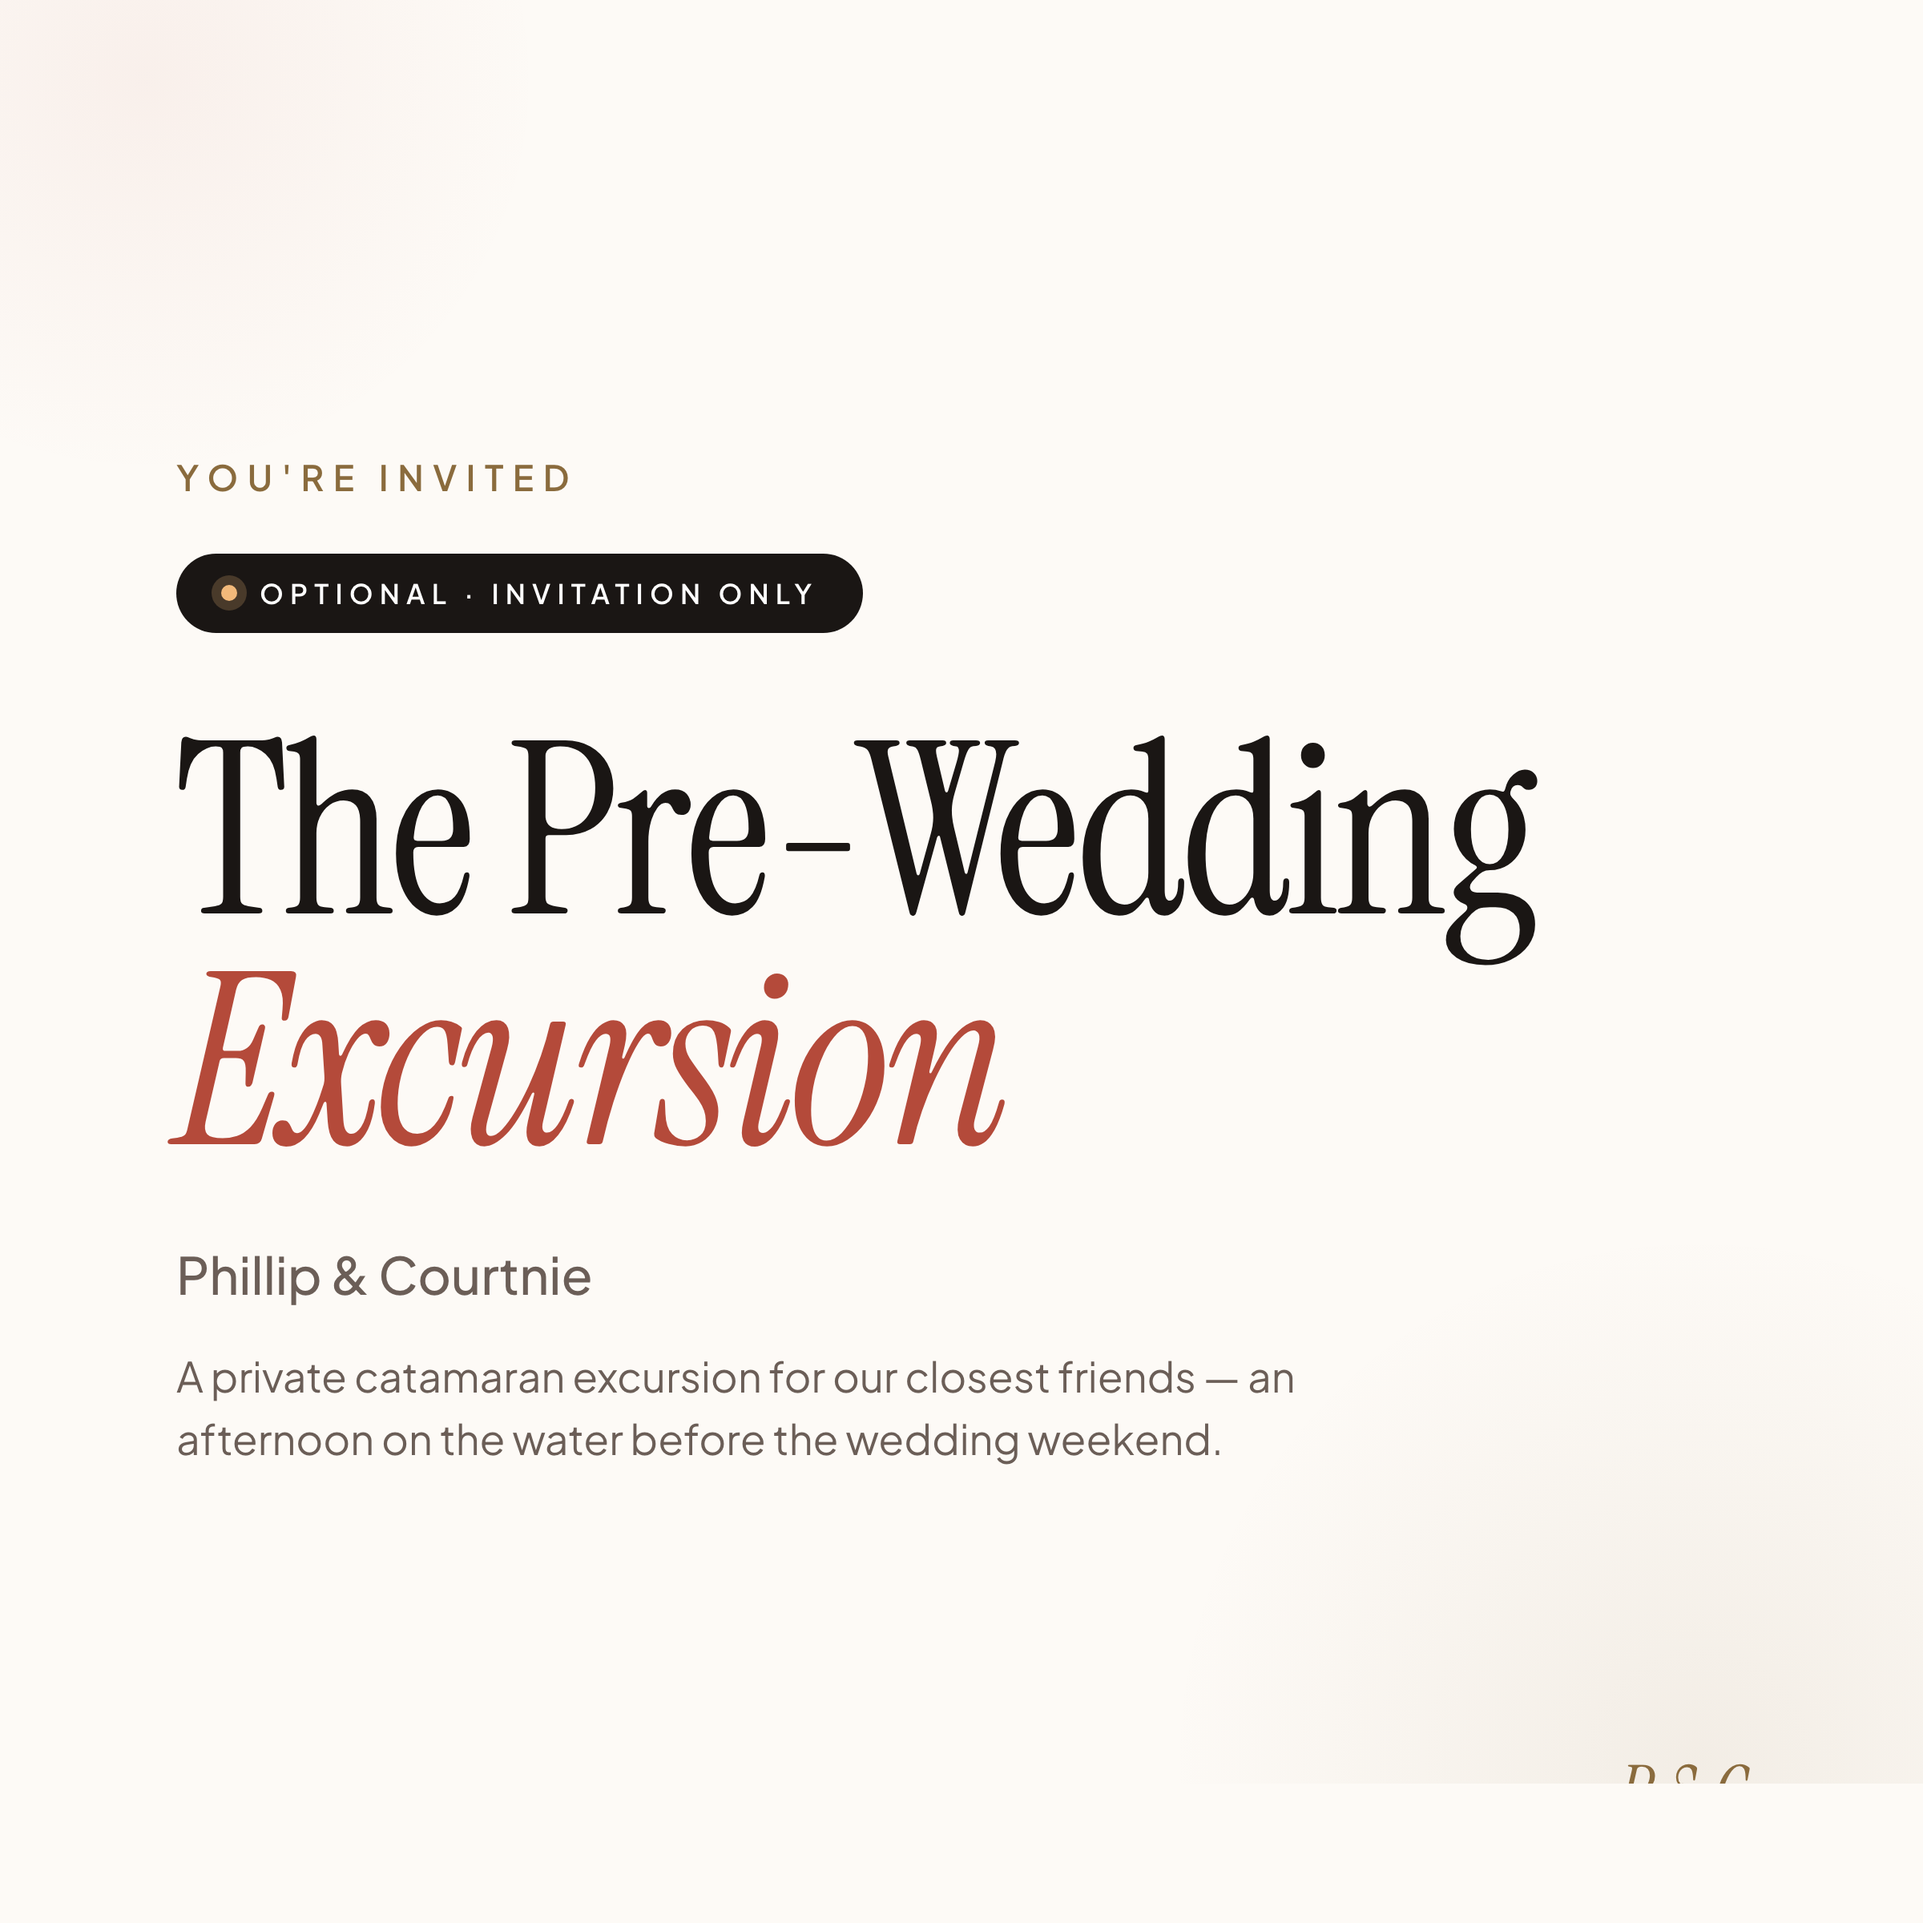
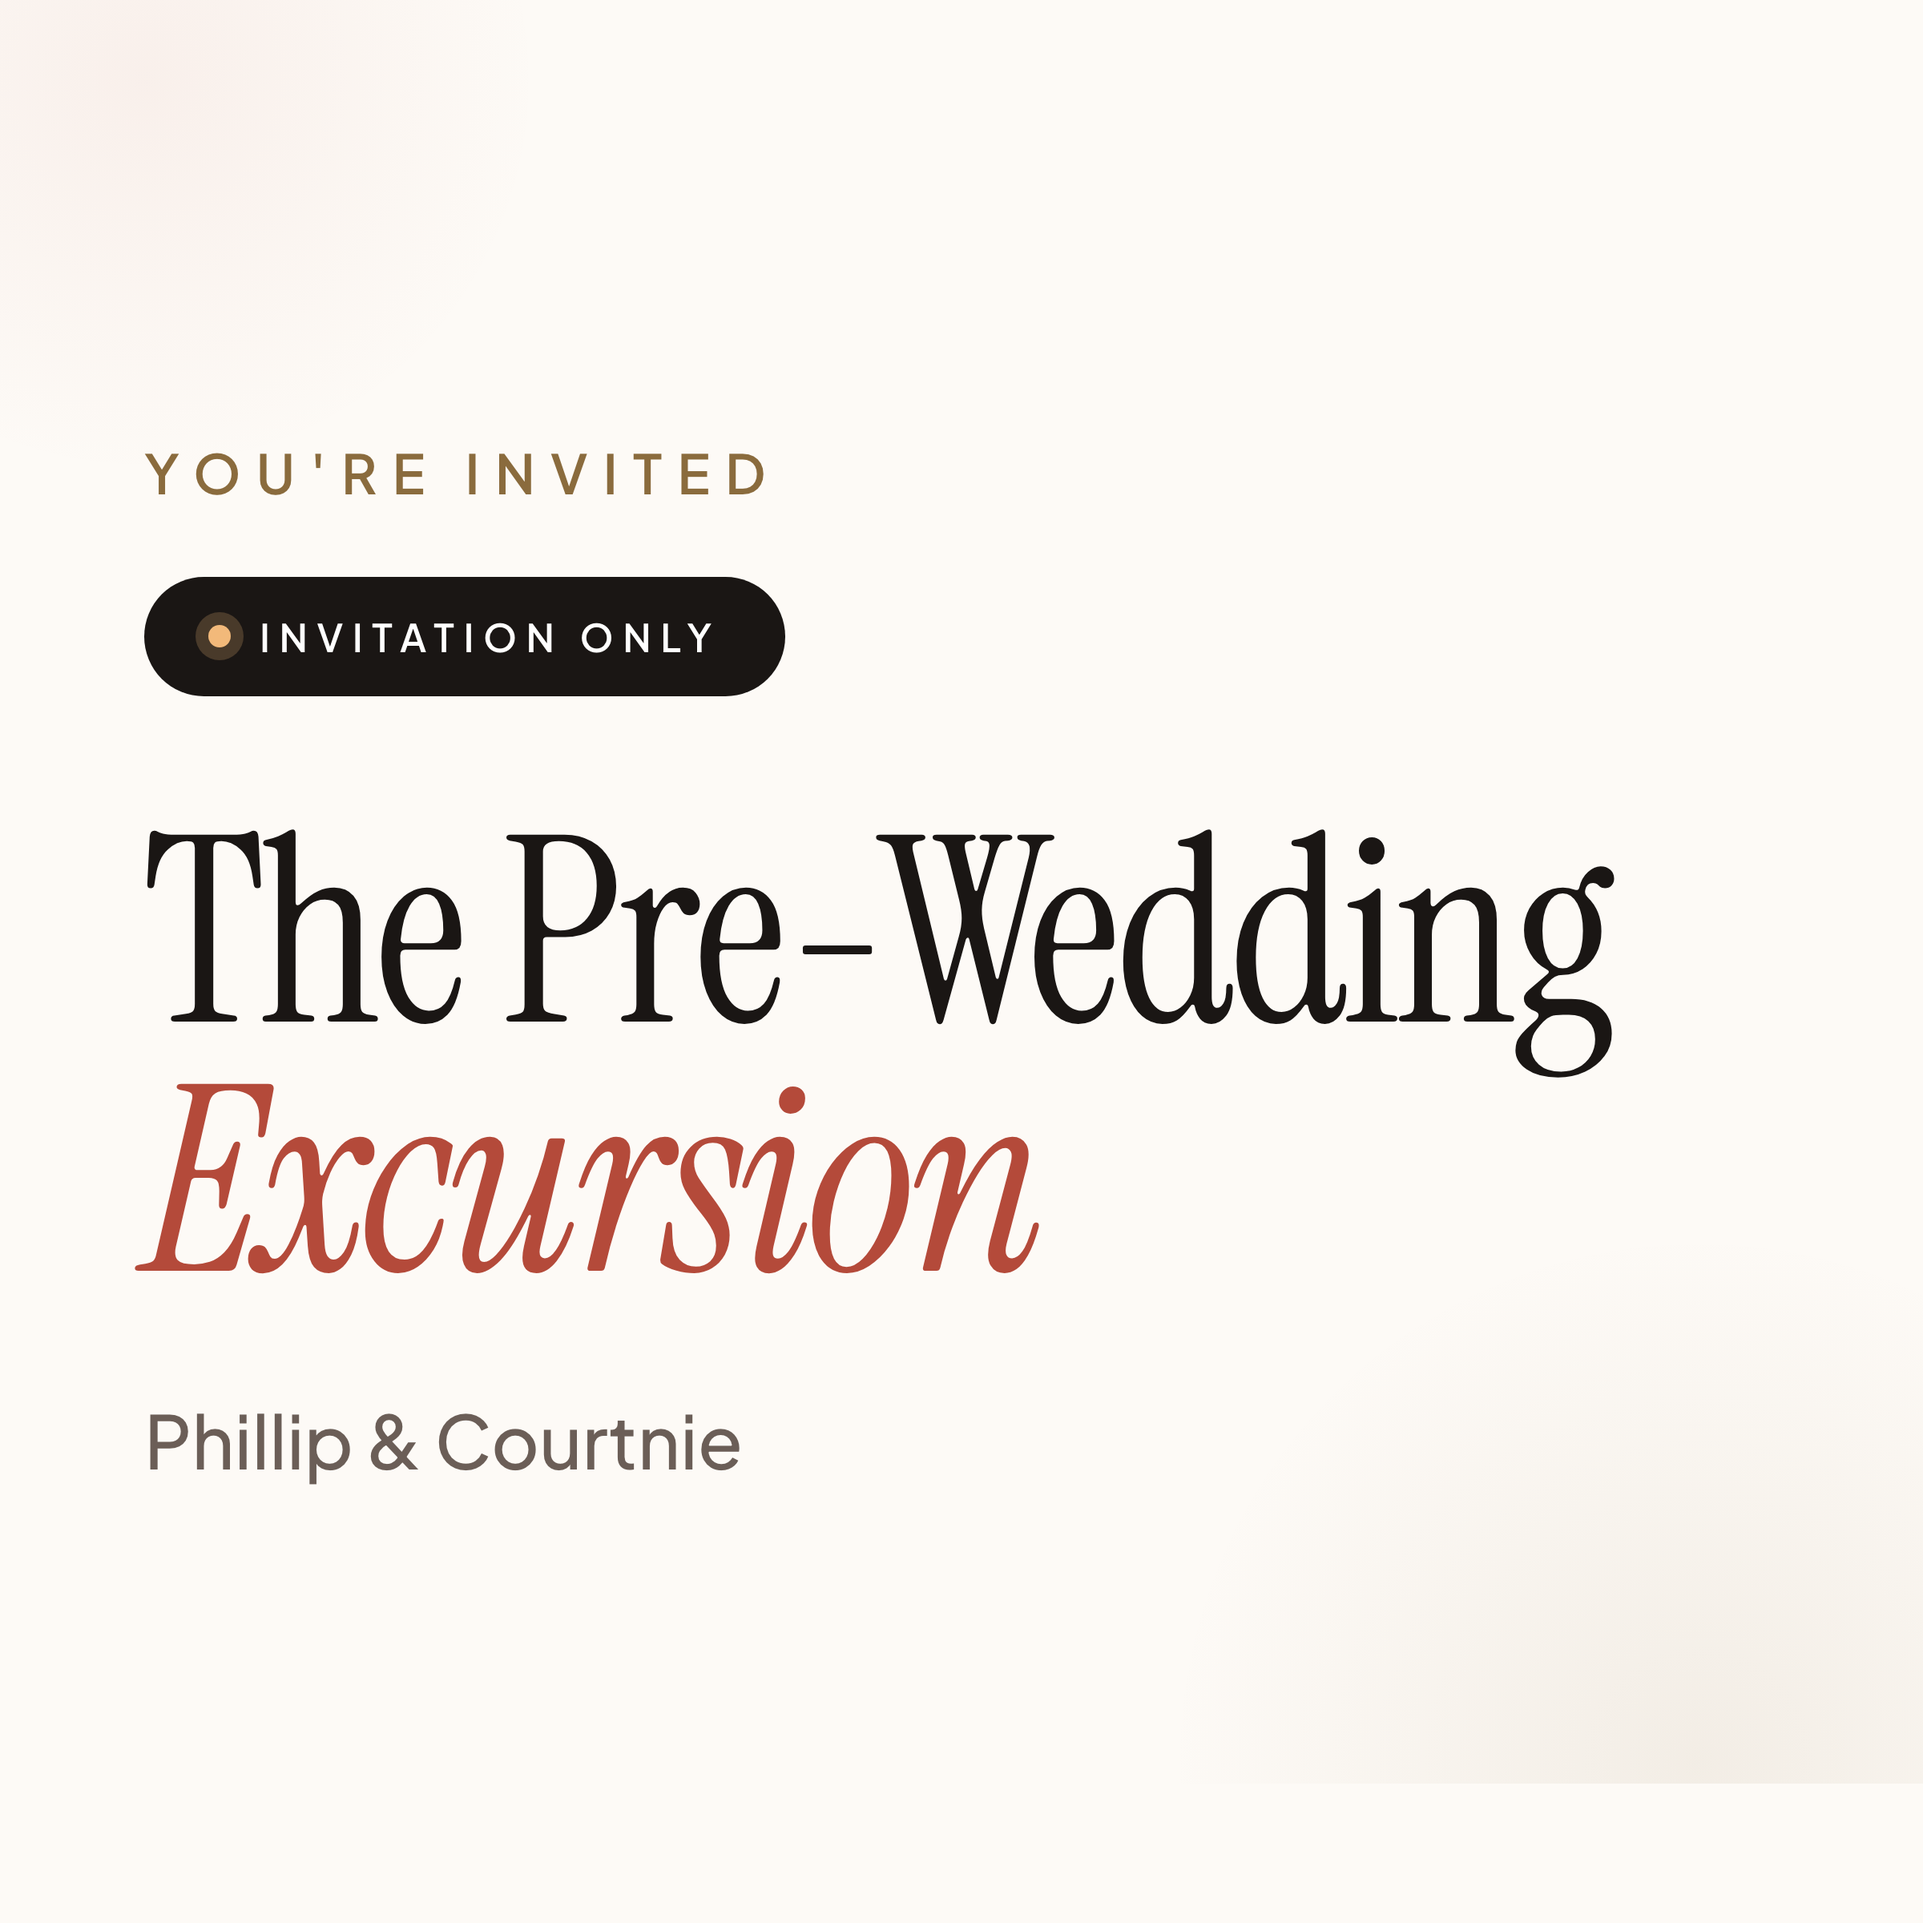
Tighten private-event OG image — larger type, drop supporting text

Changed region(s): [[0.0625, 0.2188, 0.8438, 0.6875], [0.0625, 0.7188, 0.625, 0.7812], [0.25, 0.2188, 0.4062, 0.25]]

diff --git a/private-event/index.html b/private-event/index.html
@@ -12,14 +12,14 @@
     <meta property="og:url" content="https://phillipaubrey.com/private-event/">
     <meta property="og:title" content="A private invitation">
     <meta property="og:description" content="You're invited.">
-    <meta property="og:image" content="https://phillipaubrey.com/images/og-private-event.png?v=1">
+    <meta property="og:image" content="https://phillipaubrey.com/images/og-private-event.png?v=2">
     <meta property="og:image:width" content="1200">
     <meta property="og:image:height" content="1200">
     <meta property="og:image:alt" content="The Pre-Wedding Excursion — Phillip & Courtnie">
     <meta name="twitter:card" content="summary_large_image">
     <meta name="twitter:title" content="A private invitation">
     <meta name="twitter:description" content="You're invited.">
-    <meta name="twitter:image" content="https://phillipaubrey.com/images/og-private-event.png?v=1">
+    <meta name="twitter:image" content="https://phillipaubrey.com/images/og-private-event.png?v=2">
 
     <link rel="icon" type="image/png" href="/favicon.png">
     <link rel="apple-touch-icon" href="/apple-touch-icon.png">
